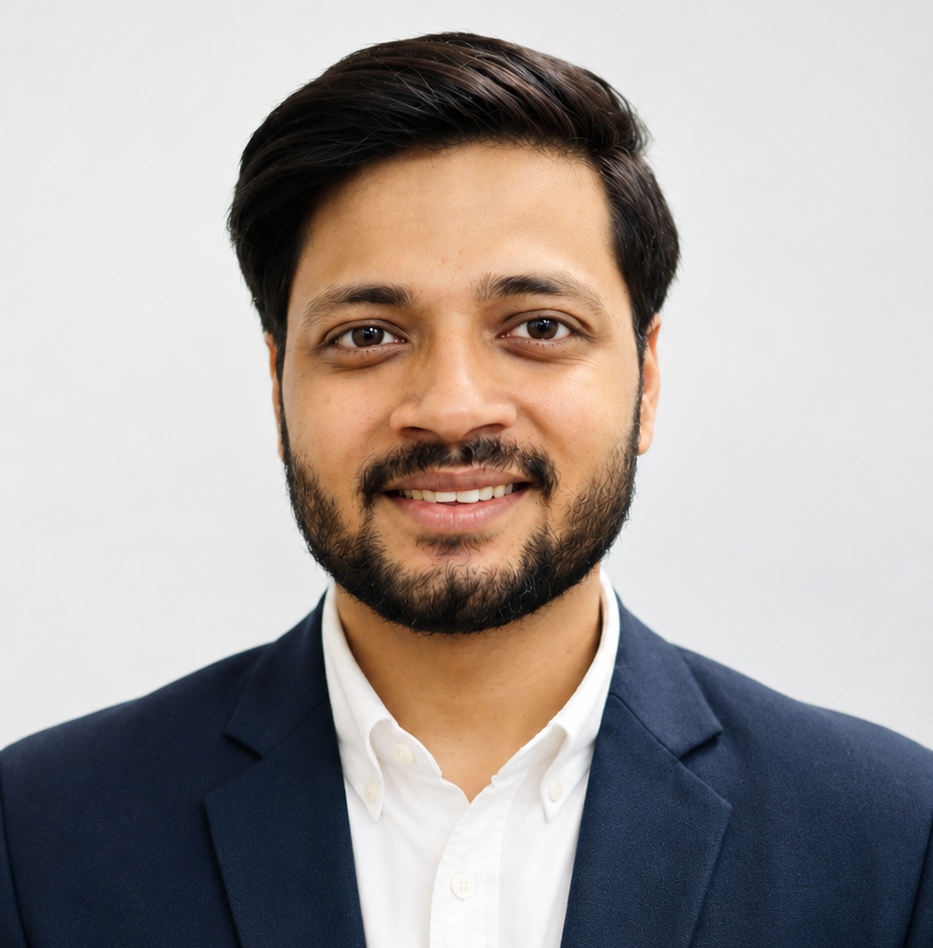
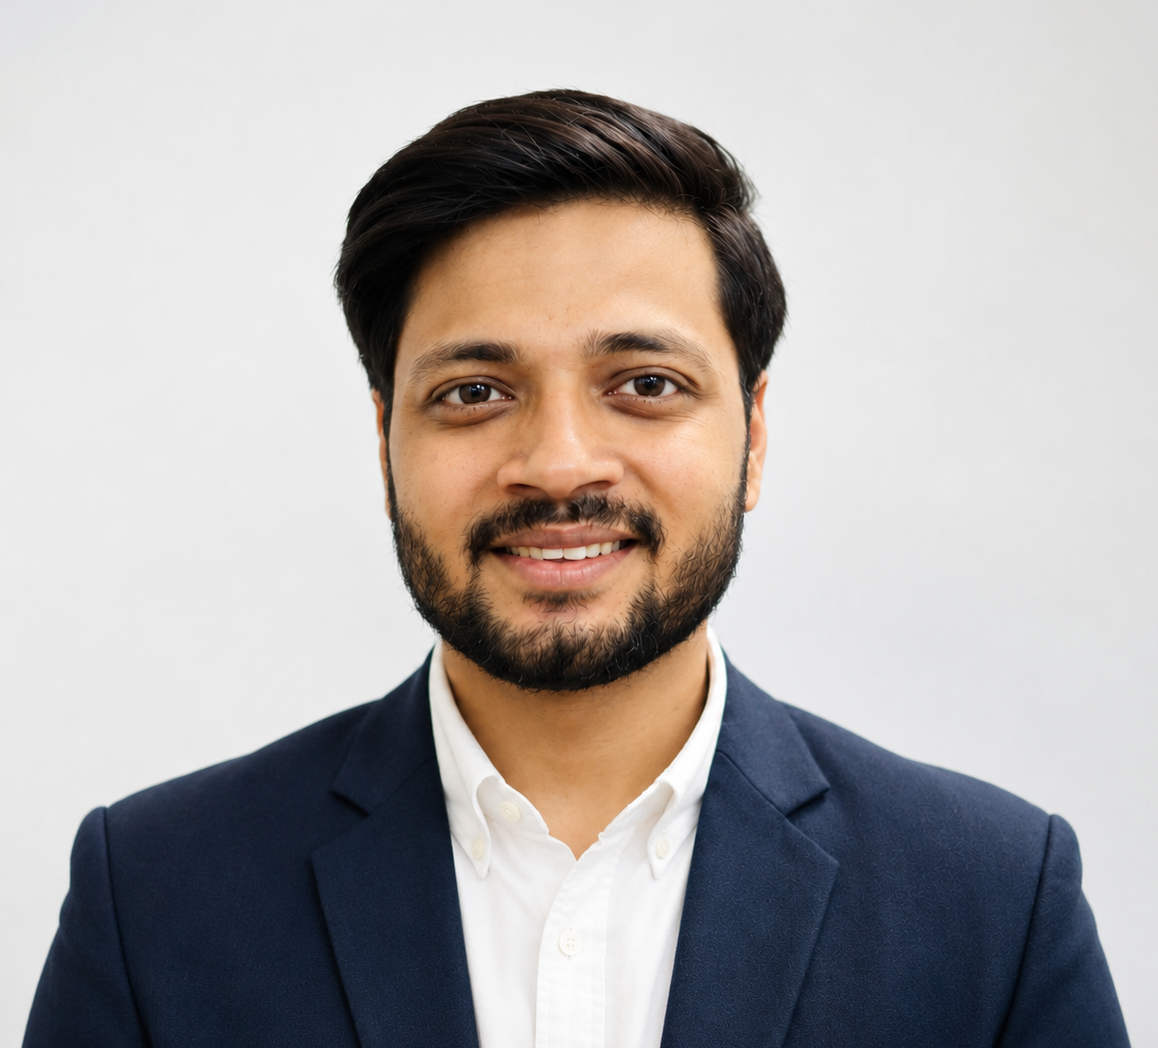
corrected my profile photo and refractor the environment variables

diff --git a/src/app/actions/contact.ts b/src/app/actions/contact.ts
@@ -1,0 +1,37 @@
+"use server";
+
+export async function sendContactMessage(formData: FormData) {
+  const name = formData.get("name") as string;
+  const email = formData.get("email") as string;
+  const message = formData.get("message") as string;
+
+  if (!name || !email || !message) {
+    return { success: false, error: "All fields are required." };
+  }
+
+  const accessKey = process.env.WEB3FORMS_KEY;
+  if (!accessKey) {
+    return { success: false, error: "Contact form is not configured." };
+  }
+
+  const payload = new FormData();
+  payload.append("access_key", accessKey);
+  payload.append("name", name);
+  payload.append("email", email);
+  payload.append("message", message);
+  payload.append("subject", `Portfolio Contact - ${name}`);
+  payload.append("from_name", "shivanshsingh.in");
+
+  try {
+    const res = await fetch("https://api.web3forms.com/submit", {
+      method: "POST",
+      body: payload,
+    });
+    const data = await res.json();
+    return data.success
+      ? { success: true }
+      : { success: false, error: "Submission failed. Please try again." };
+  } catch {
+    return { success: false, error: "Network error. Please try again." };
+  }
+}

diff --git a/src/components/contact-form.tsx b/src/components/contact-form.tsx
@@ -2,35 +2,24 @@
 
 import { useState } from "react";
 import { Send, CheckCircle } from "lucide-react";
-
-const ACCESS_KEY = process.env.WEB3FORMS_KEY ?? "";
+import { sendContactMessage } from "@/app/actions/contact";
 
 export default function ContactForm() {
   const [status, setStatus] = useState<"idle" | "sending" | "sent" | "error">("idle");
+  const [errorMsg, setErrorMsg] = useState("");
 
   async function handleSubmit(e: React.FormEvent<HTMLFormElement>) {
     e.preventDefault();
     setStatus("sending");
 
-    const form = e.currentTarget;
-    const formData = new FormData(form);
-    formData.append("access_key", ACCESS_KEY);
-    formData.append("subject", "Portfolio Contact - " + formData.get("name"));
-    formData.append("from_name", "shivanshsingh.in");
+    const formData = new FormData(e.currentTarget);
+    const result = await sendContactMessage(formData);
 
-    try {
-      const res = await fetch("https://api.web3forms.com/submit", {
-        method: "POST",
-        body: formData,
-      });
-      const data = await res.json();
-      if (data.success) {
-        setStatus("sent");
-        form.reset();
-      } else {
-        setStatus("error");
-      }
-    } catch {
+    if (result.success) {
+      setStatus("sent");
+      (e.target as HTMLFormElement).reset();
+    } else {
+      setErrorMsg(result.error ?? "Something went wrong.");
       setStatus("error");
     }
   }
@@ -84,7 +73,7 @@ export default function ContactForm() {
         {status === "sending" ? "Sending..." : "Send message"}
       </button>
       {status === "error" && (
-        <p className="text-xs text-[#cc0000]">Something went wrong. Try emailing me directly.</p>
+        <p className="text-xs text-[#cc0000]">{errorMsg}</p>
       )}
     </form>
   );

diff --git a/src/components/layout/profile-sidebar.tsx b/src/components/layout/profile-sidebar.tsx
@@ -20,7 +20,8 @@ export default function ProfileSidebar() {
             alt="Shivansh Singh"
             fill
             className="object-cover object-top"
-            sizes="128px"
+            sizes="(max-width: 768px) 50vw, 160px"
+            quality={95}
             priority
           />
         </div>

diff --git a/scripts/seed-sanity.ts b/scripts/seed-sanity.ts
@@ -9,7 +9,7 @@
  *   Add to .env.local:
  *     NEXT_PUBLIC_SANITY_PROJECT_ID=...
  *     NEXT_PUBLIC_SANITY_DATASET=production
- *     SANITY_DETAIL=...   ← Editor or Admin role
+ *     SANITY_DETAIL=...      ← Editor or Admin role token
  *
  * Run:
  *   npx tsx scripts/seed-sanity.ts